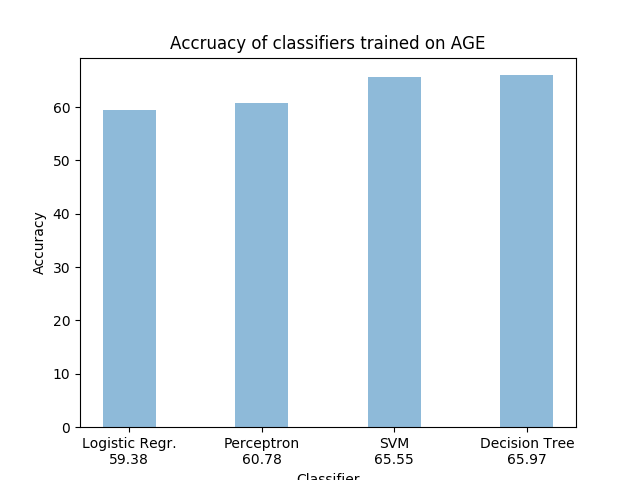
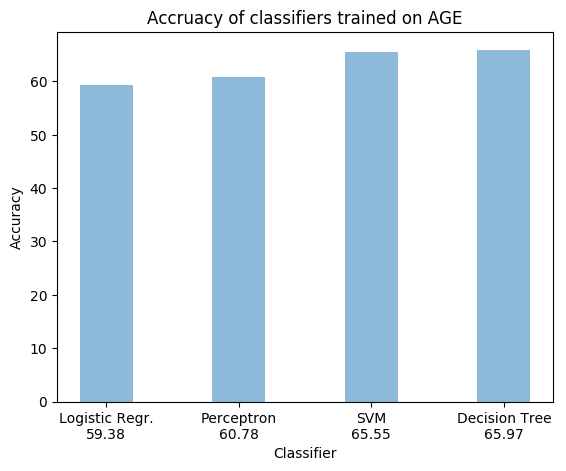
plots resized to tight fit. Also improved code quality

Changed region(s): [[0.0, 0.0, 0.9912, 1.0], [0.0601, 0.6242, 0.0901, 0.6539], [0.0601, 0.2675, 0.0901, 0.2972]]

diff --git a/Illustrations/Age/age_accuracy.py b/Illustrations/Age/age_accuracy.py
@@ -23,11 +23,11 @@ x1 = np.array(train_data[train_data['Survived']==1]['Age'])
 fig1 = plt.figure()
 plt.hist(x=[x0,x1],bins = 20,stacked=True, label=['Died','Survived'])
 plt.xlabel('Age')
-plt.ylabel('No of passengers') 
+plt.ylabel('No of passengers')
 plt.title('Stacked Histogram on Age')
 plt.legend()
 #plt.show()
-plt.savefig('plots/Age_survival_distribution.png')
+plt.savefig('plots/Age_survival_distribution.png',bbox_inches='tight')
 
 # separating features and labels
 X = train_data.drop('Survived',axis=1)
@@ -55,8 +55,7 @@ decision_tree.fit(X, Y)
 acc_decision_tree = round(decision_tree.score(X, Y) * 100, 2)
 
 models = pd.DataFrame({
-    'Model': ['SVM', 'Logistic Regr.', 
-              'Perceptron','Decision Tree'],
+    'Model': ['SVM', 'Logistic Regr.','Perceptron','Decision Tree'],
     'Score': [acc_svc, acc_log, acc_perceptron, acc_decision_tree]})
 
 models = models.sort_values(by='Score', ascending=True)
@@ -70,4 +69,4 @@ plt.bar(np.arange(len(models)),models['Score'],alpha=0.5,tick_label = l,width = 
 plt.xlabel('Classifier')
 plt.ylabel('Accuracy')
 plt.title('Accruacy of classifiers trained on AGE')
-plt.savefig('plots/Accuracy_classifier.png')
+plt.savefig('plots/Accuracy_classifier.png',bbox_inches='tight')
